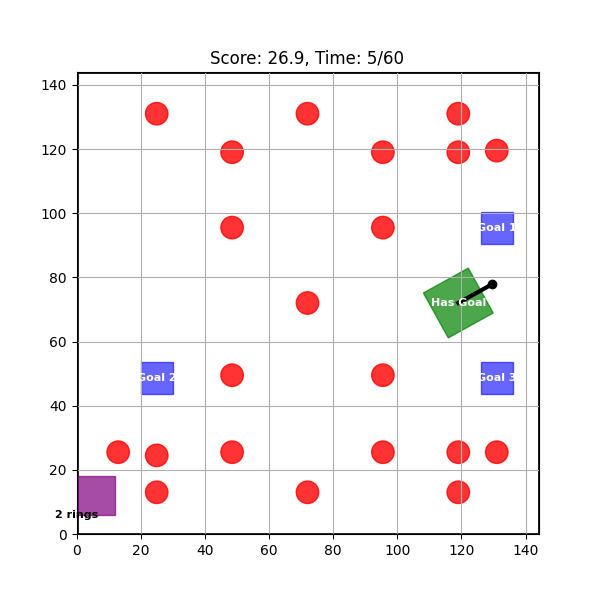
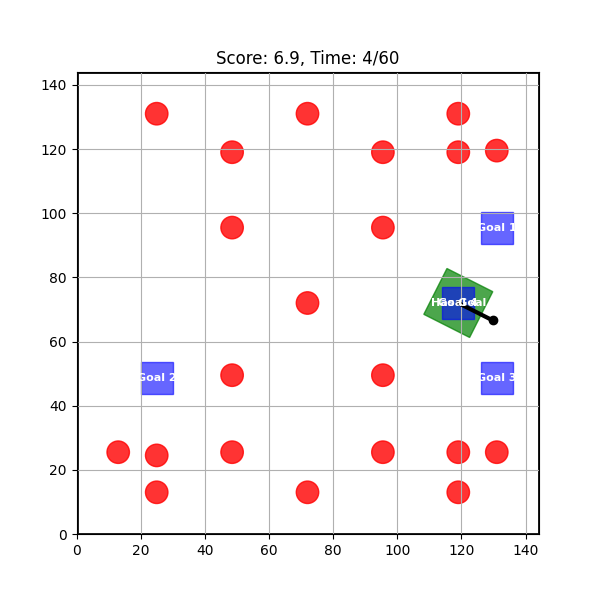
updating logic

Changed region(s): [[0.69, 0.45, 0.84, 0.57], [0.36, 0.06, 0.69, 0.12], [0.09, 0.78, 0.21, 0.87]]

diff --git a/test.py b/test.py
@@ -12,6 +12,7 @@ def run_manual_simulation():
     
     # Total reward tracking
     total_reward = 0
+    total_score = 0
     
     # Display initial state
     print("Initial State")
@@ -24,13 +25,15 @@ def run_manual_simulation():
     # 1. Move to a goal
     print("\nStep 1: Moving to grab a mobile goal")
     accessible_objects = env.get_accessible_objects()
+    print(accessible_objects)
     goal_actions = [i for i, obj in enumerate(accessible_objects) if obj['type'] == 'goal']
     
     if goal_actions:
         action = goal_actions[0]  # First accessible goal
-        obs, reward, done, _ = env.step(action)
+        obs, reward, done, _, score = env.step(action)
         total_reward += reward
-        print(f"Moved to goal, reward: {reward}")
+        total_score += score
+        print(f"Moved to goal, reward: {reward}, Score: {total_score:.2f}")
         env.render()
         time.sleep(1)
     
@@ -41,9 +44,10 @@ def run_manual_simulation():
     
     if ring_actions:
         action = ring_actions[0]  # First accessible ring
-        obs, reward, done, _ = env.step(action)
+        obs, reward, done, _, score = env.step(action)
         total_reward += reward
-        print(f"Collected ring, reward: {reward}")
+        total_score += score
+        print(f"Moved to goal, reward: {reward}, Score: {total_score:.2f}")
         env.render()
         time.sleep(1)
     
@@ -54,9 +58,10 @@ def run_manual_simulation():
     
     if len(ring_actions) > 0:
         action = ring_actions[0]  # Another accessible ring
-        obs, reward, done, _ = env.step(action)
+        obs, reward, done, _,score = env.step(action)
         total_reward += reward
-        print(f"Collected another ring, reward: {reward}")
+        total_score += score
+        print(f"Moved to goal, reward: {reward}, Score: {total_score:.2f}")
         env.render()
         time.sleep(1)
     
@@ -67,9 +72,10 @@ def run_manual_simulation():
     
     if corner_actions:
         action = corner_actions[0]  # First accessible corner
-        obs, reward, done, _ = env.step(action)
+        obs, reward, done, _, score = env.step(action)
         total_reward += reward
-        print(f"Placed goal in corner, reward: {reward}")
+        total_score += score
+        print(f"Moved to goal, reward: {reward}, Score: {total_score:.2f}")
         env.render()
         time.sleep(1)
     
@@ -80,9 +86,10 @@ def run_manual_simulation():
     
     if goal_actions:
         action = goal_actions[0]  # Another accessible goal
-        obs, reward, done, _ = env.step(action)
+        obs, reward, done, _, score = env.step(action)
         total_reward += reward
-        print(f"Grabbed another goal, reward: {reward}")
+        total_score += score
+        print(f"Moved to goal, reward: {reward}, Score: {total_score:.2f}")
         env.render()
         time.sleep(1)
     
@@ -94,9 +101,10 @@ def run_manual_simulation():
     
     if corner_actions:
         action = corner_actions[0]  # Another accessible corner
-        obs, reward, done, _ = env.step(action)
+        obs, reward, done, _, score = env.step(action)
         total_reward += reward
-        print(f"Placed goal in another corner, reward: {reward}")
+        total_score += score
+        print(f"Moved to goal, reward: {reward}, Score: {total_score:.2f}")
         env.render()
         time.sleep(1)
     

diff --git a/vex_high_stakes_gym/envs/high_stakes_env.py b/vex_high_stakes_gym/envs/high_stakes_env.py
@@ -125,9 +125,10 @@ class HighStakesEnv(gym.Env):
         reward = 0
         done = False
         info = {}
+        score = 0
         
         # Get list of accessible objects
-        accessible_objects = self.get_accessible_objects()
+        accessible_objects = self.get_accessible_objects()  # TODO: check this function
         # Check if action index is valid
         if action < 0 or action >= len(accessible_objects):
             reward -= 10  # Invalid action penalty
@@ -183,8 +184,10 @@ class HighStakesEnv(gym.Env):
                         
                         if ring_count == 0:
                             reward += 5  # First ring bonus
+                            score += 3
                         else:
                             reward += 3  # Regular ring score
+                            score += 1
                     else:
                         reward -= 1  # Penalty for full goal
                 else:
@@ -209,6 +212,7 @@ class HighStakesEnv(gym.Env):
                     goal['in_corner'] = True  # Mark as in a corner
                     
                     reward += 8  # Score for placing goal in corner
+                    score += 5
                 else:
                     reward -= 1  # No goal to place
             
@@ -225,7 +229,7 @@ class HighStakesEnv(gym.Env):
         # Update observation
         observation = self.get_observation()
         
-        return observation, reward, done, info
+        return observation, reward, done, info, score
     
     def render(self, mode='human'):
         """
@@ -343,7 +347,7 @@ class HighStakesEnv(gym.Env):
         # Clean up resources if needed
         pass
     
-    def check_collision(self, start_pos, end_pos, width=2.5):
+    def check_collision(self, start_pos, end_pos, width=16):
         """Check if a straight line path between two points collides with any objects"""
         # Vector from start to end
         vec = numpy.array([end_pos[0] - start_pos[0], end_pos[1] - start_pos[1]])
@@ -616,6 +620,7 @@ def train_dqn_agent(env, episodes=1000):
         env.reset()
         state = env.get_observation()
         total_reward = 0
+        total_score = 0
         done = False
         
         # Episode loop
@@ -629,7 +634,7 @@ def train_dqn_agent(env, episodes=1000):
             action = agent.act(state, len(accessible_objects))
             
             # Take action
-            next_state, reward, done, _ = env.step(action)
+            next_state, reward, done, _, score = env.step(action)
             next_state = env.get_observation()
             
             # Remember experience
@@ -638,6 +643,7 @@ def train_dqn_agent(env, episodes=1000):
             # Update state and score
             state = next_state
             total_reward += reward
+            total_score += score
             
             # Visualize training (optional, can be commented out for faster training)
             # env.render()
@@ -649,7 +655,7 @@ def train_dqn_agent(env, episodes=1000):
         scores.append(total_reward)
         
         if e % 10 == 0:
-            print(f"Episode: {e}/{episodes}, Score: {total_reward:.2f}, Epsilon: {agent.epsilon:.2f}")
+            print(f"Episode: {e}/{episodes}, Reward: {total_reward:.2f}, Epsilon: {agent.epsilon:.2f}, Score: {total_score}")
             print()
     
     return agent, scores
